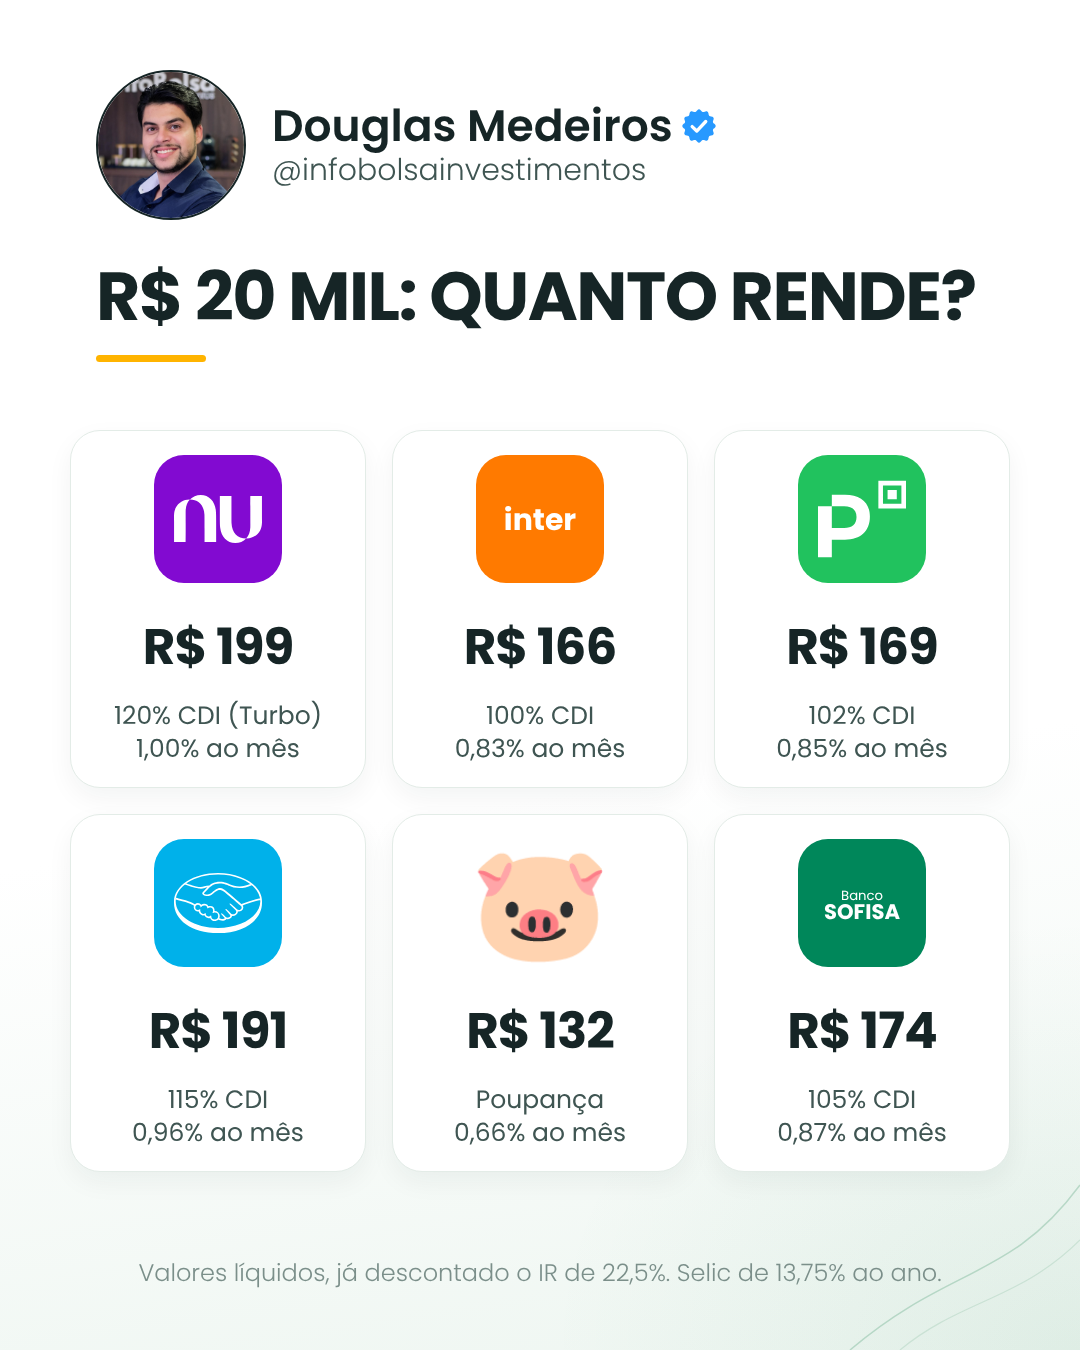
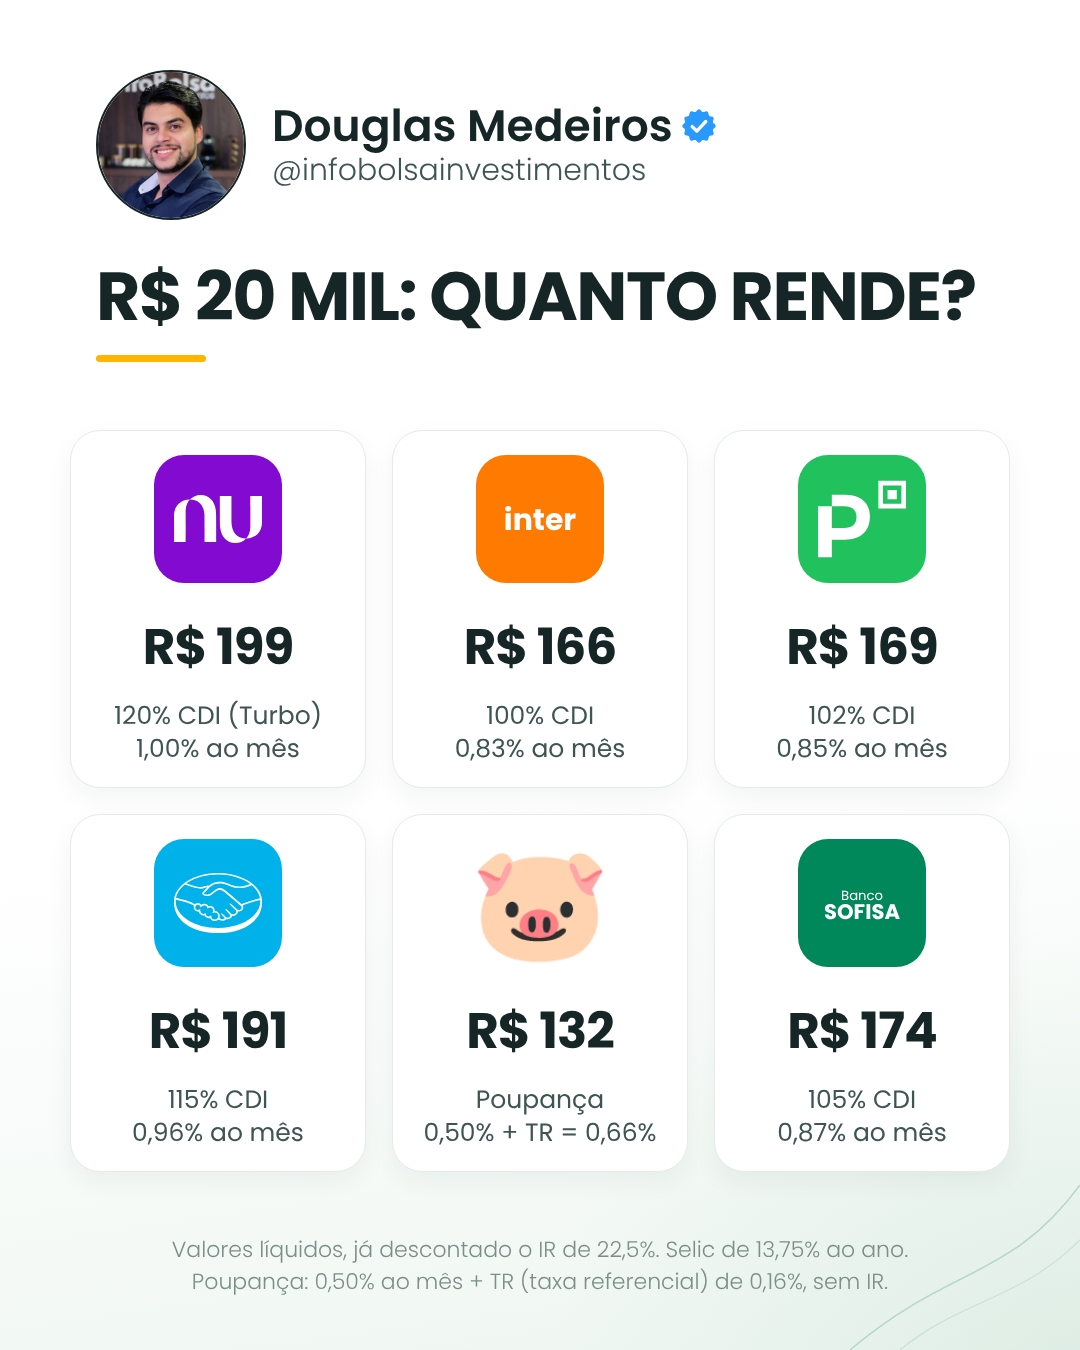
R$ 20 mil: explica a TR da poupança
Claude-Session: https://claude.ai/code/session_01V4Ut9U2W4uPbxLAyJQKmJH

Changed region(s): [[0.1528, 0.9022, 0.8556, 0.9644], [0.3972, 0.8089, 0.5806, 0.8711]]

diff --git a/kit/gen_tw.py b/kit/gen_tw.py
@@ -32,7 +32,7 @@ def grade(c):
 <div><div class="nm">Douglas Medeiros {SELO}</div><div class="ar">@infobolsainvestimentos</div></div></div>
 <div class="tw-t">{c["titulo"]}</div>
 <div class="gr" style="top:{c.get("top", 420)}px;grid-template-columns:repeat({c.get("cols", 3)},1fr)">{it}</div>
-<div style="position:absolute;left:96px;right:96px;bottom:60px;text-align:center;font-size:24px;color:#7b8f8a">{c.get("nota", "")}</div>
+<div style="position:absolute;left:96px;right:96px;bottom:52px;text-align:center;font-size:22px;line-height:1.45;color:#7b8f8a">{c.get("nota", "")}</div>
 {SCRIPT}</body></html>"""
 
 CSS_VS = """
